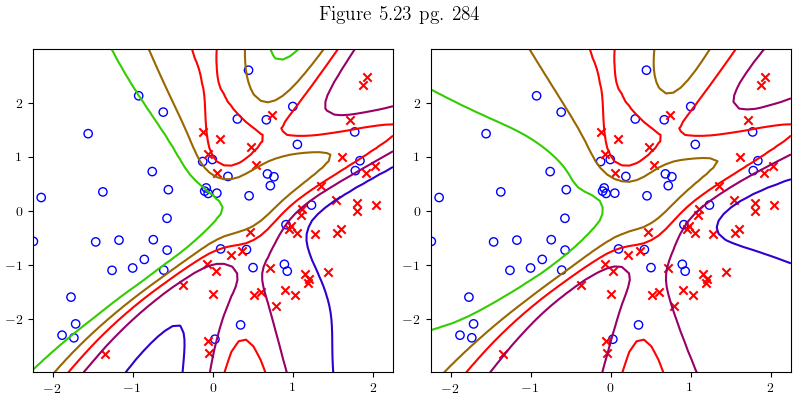
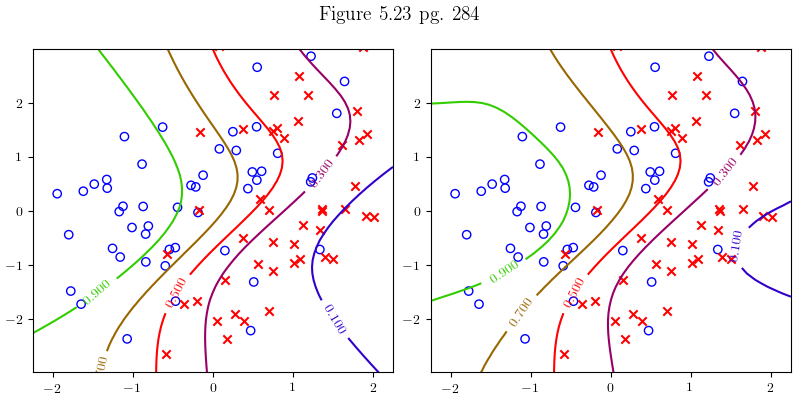
Contour line labels added to Figure 5-23

diff --git a/Chp5/fig5-23.py b/Chp5/fig5-23.py
@@ -425,7 +425,7 @@ if __name__ == '__main__':
     N = 50 #Number of points in each class
     X_train, T_train = generate2ClassData(N)
     D_in, H, D_out = 2, 8, 1
-    lr, err = 5e-4, 1e-6 #learning rate, error threshold
+    lr, err = 1e-3, 1e-3 #learning rate, error threshold
     
     #Set up meshgrids for contours
     x = np.linspace(xlim[0],xlim[1],50)
@@ -445,14 +445,16 @@ if __name__ == '__main__':
         Z[i,j] = sNN.getTPred(x_test).data.numpy()
 
     #Plot decision surface boundary
-    ax[0].contour(X, Y, Z, levels = [0,0.1,0.3,0.5,0.7,0.9,1.0], cmap=plt.cm.brg, linewidth=0.5)
+    CS = ax[0].contour(X, Y, Z, levels = [0,0.1,0.3,0.5,0.7,0.9,1.0], cmap=plt.cm.brg, linewidth=0.5)
+    ax[0].clabel(CS, inline=1, fontsize=10)
 
     #Now calculate the posterior with accounting for variance in the activations
     x_test = th.DoubleTensor([X.flatten(), Y.flatten()]).t()
     x_out = sNN.getPosterior(X_train, T_train[:,0], x_test)
 
     Z = x_out.view(X.shape[0], X.shape[1])
-    ax[1].contour(X, Y, Z.numpy(), levels = [0,0.1,0.3,0.5,0.7,0.9,1.0], cmap=plt.cm.brg, linewidth=0.5)
+    CS = ax[1].contour(X, Y, Z.numpy(), levels = [0,0.1,0.3,0.5,0.7,0.9,1.0], cmap=plt.cm.brg, linewidth=0.5)
+    ax[1].clabel(CS, inline=1, fontsize=10)
 
     #Seperate out classes for plotting
     X0 = np.zeros((N,2))
@@ -478,5 +480,5 @@ if __name__ == '__main__':
         ax0.set_yticks([-2, -1, 0, 1, 2])
 
     plt.tight_layout(pad=0.4, w_pad=0.5, h_pad=0.5, rect=[0,0, 1, 0.9])
-    #plt.savefig('Figure5_24.png')
+    #plt.savefig('Figure5_23.png')
     plt.show()
